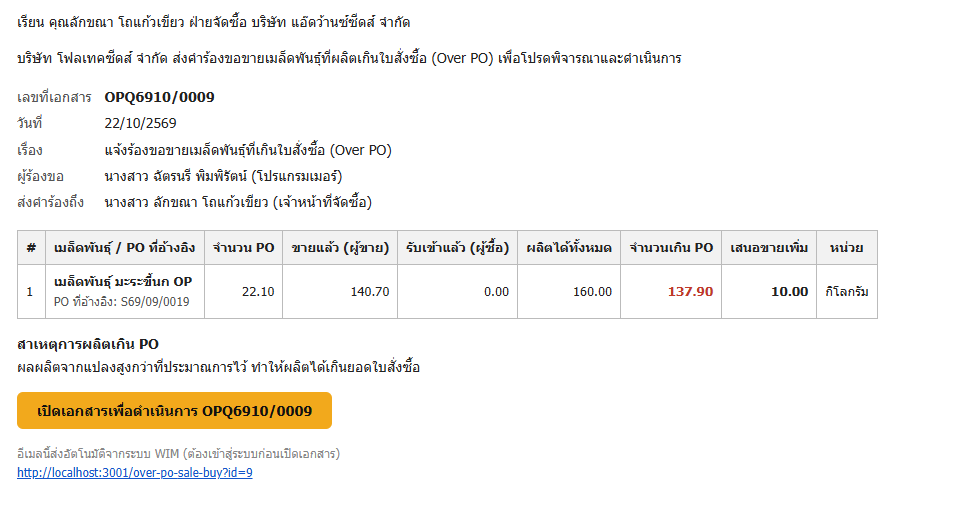
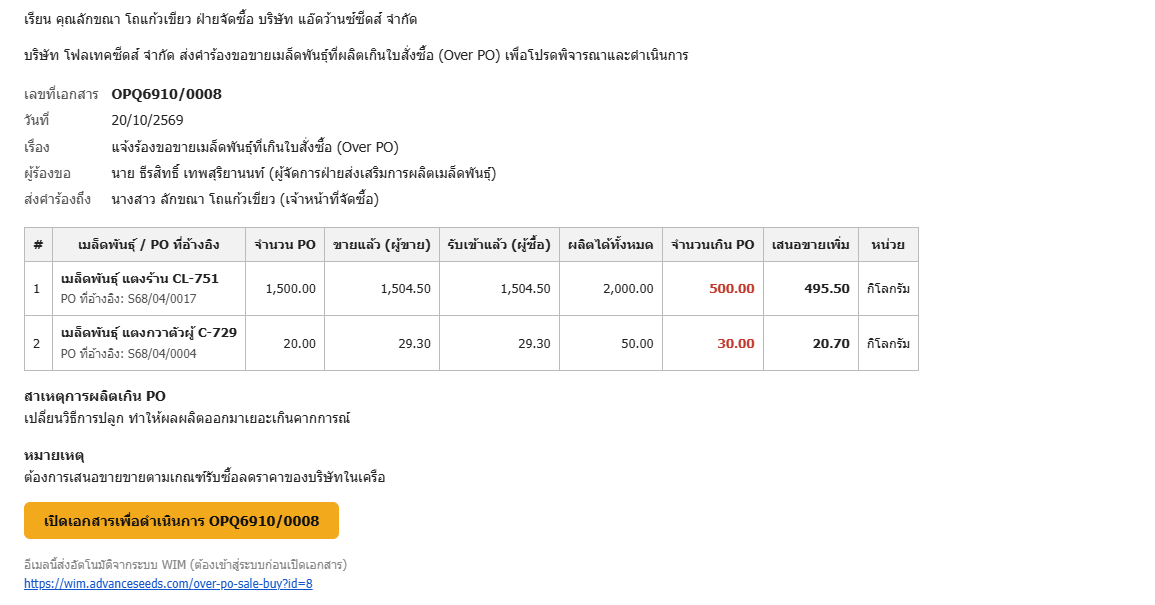
Over PO manual: real purchasing mail image + approver mail rendered from real template

Changed region(s): [[0.0, 0.0, 0.8978, 1.0]]

diff --git a/public/manual-over-po-sale.html b/public/manual-over-po-sale.html
@@ -547,7 +547,7 @@
               <p>กด <span class="ui">บันทึกและส่งคำร้อง</span> ระบบจะแสดงหน้าต่างยืนยัน บอกว่าอีเมลจะไปถึงใคร (TO / CC) และรายการที่เสนอขาย ตรวจแล้วกด <span class="ui">ยืนยันบันทึกและส่ง E-mail</span></p>
               <figure class="shot"><a href="images/manual/over-po-sale/confirm-req.png" target="_blank"><img src="images/manual/over-po-sale/confirm-req.png" alt="ยืนยันบันทึกและส่งคำร้อง" loading="lazy"></a><figcaption>หน้าต่างยืนยันก่อนส่ง</figcaption></figure>
               <p>หลังบันทึก ระบบส่งอีเมลถึงฝ่ายจัดซื้อทันที หน้าตาอีเมลที่ฝ่ายจัดซื้อได้รับ:</p>
-              <figure class="shot"><a href="images/manual/over-po-sale/mail-purchasing.png" target="_blank"><img src="images/manual/over-po-sale/mail-purchasing.png" alt="อีเมลถึงฝ่ายจัดซื้อ" style="aspect-ratio:969/440; object-fit:cover; object-position:top;" loading="lazy"></a><figcaption>อีเมลถึงฝ่ายจัดซื้อ มีปุ่มเปิดเอกสารเพื่อดำเนินการ</figcaption></figure>
+              <figure class="shot"><a href="images/manual/over-po-sale/mail-purchasing.png" target="_blank"><img src="images/manual/over-po-sale/mail-purchasing.png" alt="อีเมลถึงฝ่ายจัดซื้อ" loading="lazy"></a><figcaption>อีเมลถึงฝ่ายจัดซื้อ มีปุ่มเปิดเอกสารเพื่อดำเนินการ</figcaption></figure>
               <div class="callout warn"><span class="ic">⚠</span><span>แก้ไขหรือยกเลิกคำร้องได้<b>จนกว่าฝ่ายจัดซื้อจะเริ่มตรวจสอบ</b> เมื่อแก้ไข ระบบส่งอีเมลแจ้งการแก้ไขให้อัตโนมัติ</span></div>
             </section>
 
@@ -688,7 +688,7 @@
             <section class="doc-section" id="b-approver">
               <div class="sec-head"><span class="sec-no">05</span><h2>สำหรับผู้รับทราบ / ผู้ตรวจสอบ / ผู้อนุมัติ</h2></div>
               <p>ท่านจะได้อีเมลขออนุมัติ กดปุ่ม <span class="ui">เปิดใบขออนุมัติ … เพื่อพิจารณา</span> (ต้องเข้าสู่ระบบ WIM ก่อน) ผู้อนุมัติแต่ละท่านพิจารณาได้ทันที ไม่ต้องรอท่านอื่น</p>
-              <figure class="shot"><a href="images/manual/over-po-sale/mail-approver.png" target="_blank"><img src="images/manual/over-po-sale/mail-approver.png" alt="อีเมลขออนุมัติ" style="aspect-ratio:1134/485; object-fit:cover; object-position:top;" loading="lazy"></a><figcaption>อีเมลขออนุมัติที่ผู้อนุมัติได้รับ</figcaption></figure>
+              <figure class="shot"><a href="images/manual/over-po-sale/mail-approver.png" target="_blank"><img src="images/manual/over-po-sale/mail-approver.png" alt="อีเมลขออนุมัติ" loading="lazy"></a><figcaption>อีเมลขออนุมัติที่ผู้อนุมัติได้รับ</figcaption></figure>
               <p>หน้าใบขออนุมัติมีกรอบ <b>รอการพิจารณาของคุณ</b> ให้เลือกผล <b>ทีละขั้นตามหน้าที่ของคุณ</b></p>
               <figure class="shot"><a href="images/manual/over-po-sale/apv-page.png" target="_blank"><img src="images/manual/over-po-sale/apv-page.png" alt="หน้าพิจารณาของผู้อนุมัติ" loading="lazy"></a><figcaption>ตัวอย่างหน้าของผู้รับทราบ: ปุ่มรับทราบ / ส่งกลับแก้ไข / ไม่รับซื้อ อยู่เหนือตัวเอกสาร (ผู้ตรวจสอบ/ผู้อนุมัติจะเห็นปุ่มของขั้นตัวเอง)</figcaption></figure>
               <ul class="bullets">

diff --git a/tools/manual-shots/mk-mail.js b/tools/manual-shots/mk-mail.js
@@ -1,0 +1,41 @@
+// ถ่ายภาพอีเมลขออนุมัติ (ผู้อนุมัติ) จากเทมเพลตจริงใน server.js + ข้อมูลจำลอง → public/images/manual/over-po-sale/mail-approver.png
+//   ใช้: node mk-mail.js
+const fs = require('fs'), path = require('path'), vm = require('vm');
+const { webkit } = require('D:/WimOnWeb/tools/mobile-test/node_modules/playwright');
+const NL = String.fromCharCode(10);
+const lines = fs.readFileSync('D:/WimOnWeb/server.js', 'utf8').split(String.fromCharCode(13) + NL).join(NL).split(NL);
+// ดึงประกาศ (const / function) ตามชื่อ — ขยายทีละบรรทัดจนคอมไพล์ผ่าน (ไม่เกิน 80 บรรทัด)
+const grab = (re) => {
+  const i = lines.findIndex(l => re.test(l));
+  if (i < 0) throw new Error('ไม่พบ ' + re);
+  for (let j = i; j < Math.min(lines.length, i + 80); j++) {
+    const chunk = lines.slice(i, j + 1).join(NL);
+    try { new vm.Script(chunk); return chunk; } catch (e) { /* ยังไม่จบประกาศ */ }
+  }
+  throw new Error('ไม่จบ ' + re);
+};
+const names = [/^const OPS_APV_STEPS/, /^const ursFmtDateThai/, /^const opsEsc /, /^const opsFmtQty/, /^const OPS_TITLE_RE/, /^const opsFormal/, /^const opsDear/, /^const opsStepName/,
+  /^const opsFmtMoney/, /^const opsRound2/, /^const opsFmtPrice/, /^const opsMailWrap/, /^const opsKv/, /^function opsBuyItemsTable/, /^function buildOpsApvMail/];
+const sandbox = {}; vm.createContext(sandbox);
+vm.runInContext(names.map(grab).join(NL), sandbox);
+
+const P = (name, full, pos) => ({ name, full, pos, position: pos });
+const doc = {
+  docNo: 'OPQ6910/0009', compReqName: 'บริษัท โฟลเทคซีดส์ จำกัด', causeNote: 'ผลผลิตจากแปลงสูงกว่าที่ประมาณการไว้ ทำให้ผลิตได้เกินยอดใบสั่งซื้อ',
+  buy: { docNo: 'OPA6910/0006', dateGet: '2026-10-30', note: '', by: P('ลักขณา โถแก้วเขียว (ตั้น)', 'นางสาว ลักขณา โถแก้วเขียว', 'เจ้าหน้าที่จัดซื้อ') },
+  items: [{ invName: 'เมล็ดพันธุ์ มะระขี้นก OP', unit: 'กิโลกรัม', amountOffer: 10, amountBuy: 10, price: 120, pos: [{ poCode: 'S69/09/0019' }] }]
+};
+const person = P('ณรงค์ วันช่วย (หนุ่ม)', 'นาย ณรงค์ วันช่วย', 'รองกรรมการผู้จัดการ');
+const m = vm.runInContext('buildOpsApvMail', sandbox)(doc, 'https://wim.advanceseeds.com/over-po-sale-opa?id=9', person, ['accept'], 'send');
+const htmlFile = path.join(__dirname, 'mail-approver.html');
+fs.writeFileSync(htmlFile, '<!doctype html><meta charset="utf-8"><body style="margin:0;background:#fff;padding:14px 20px;width:1100px">' + m.html + '</body>');
+(async () => {
+  const br = await webkit.launch();
+  const pg = await (await br.newContext({ viewport: { width: 1140, height: 900 }, deviceScaleFactor: 2 })).newPage();
+  await pg.goto('file:///' + htmlFile.split(path.sep).join('/')); await pg.waitForTimeout(500);
+  // ซ่อนบรรทัดข้อความส่งอัตโนมัติ + ลิงก์ URL ท้ายอีเมล
+  await pg.evaluate(() => { document.querySelectorAll('a').forEach(a => { if (/^https?:/.test(a.textContent.trim())) a.parentElement.style.display = 'none'; }); });
+  await (await pg.$('body > div')).screenshot({ path: 'D:/WimOnWeb/public/images/manual/over-po-sale/mail-approver.png' });
+  console.log('subject:', m.subject);
+  await br.close(); fs.unlinkSync(htmlFile);
+})();
